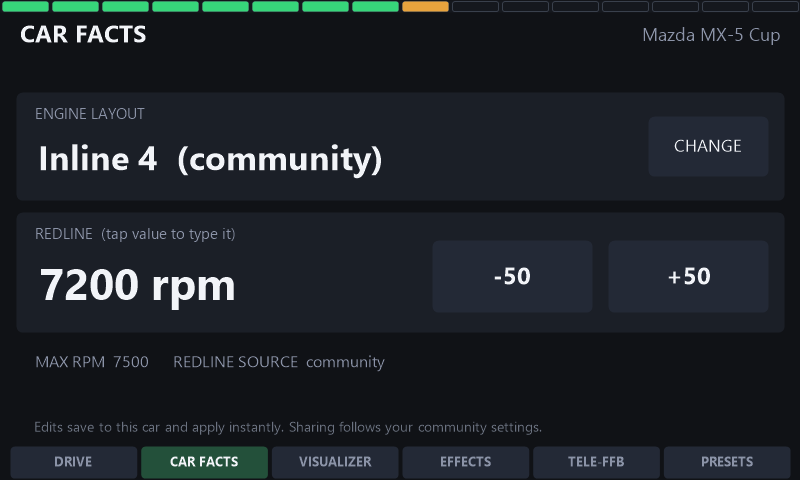
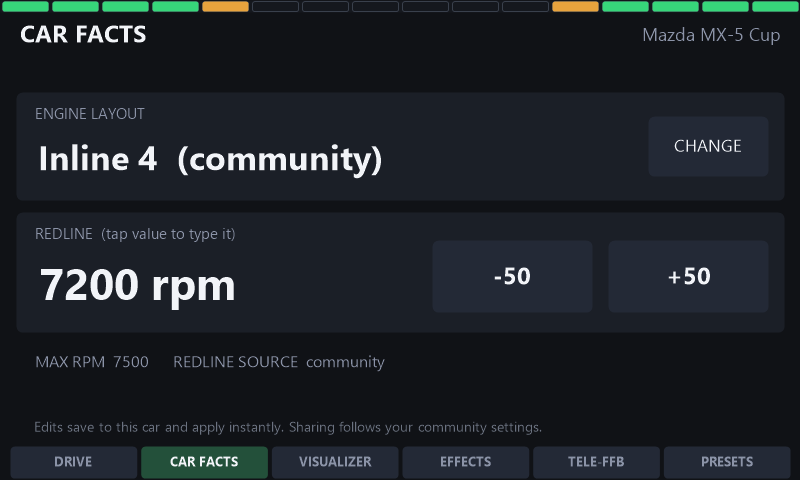
feat: flags and outside-in rev lights on by default, tap the gear to switch the strip
Race flags default on. A flag is the one thing on a dash you cannot
afford to miss, and in a game that reports none the band simply never
appears, so it costs those players nothing.

Rev strip fills outside-in by default, which is what the wheel's own rev
lights do and what most cars with center-converge shift lights do. The
preview renderer uses the same pair-index thresholds and colours, so the
thumbnail shows the strip a new user actually gets.

The gear column on the Drive tab is now the rev strip's span control: tap
it to switch between full width and just that column. It is the setting
you want to try rather than reason about, and the column has no other tap
target. Added last so it sits over the gear and pedals rather than under
them, clear of the strip above and the steering below, and gated on no
overlay being open like every other button.

Changed region(s): [[0.6875, 0.0, 1.0, 0.0312], [0.25, 0.0, 0.5625, 0.0312]]

diff --git a/src/TrueforceForAll.Plugin/TrueforceSettings.cs b/src/TrueforceForAll.Plugin/TrueforceSettings.cs
@@ -402,12 +402,13 @@ namespace TrueforceForAll.Plugin
         // without overriding a later user opt-out.
         public bool FeedbackBoxDefaultedOn { get; set; } = false;
 
-        // TF4ALL Remote dash: rev-strip fill direction. false = left to right
-        // (default); true = outside-in, both ends lighting first and
-        // converging on the center like center-converge shift lights.
+        // TF4ALL Remote dash: rev-strip fill direction. false = left to right;
+        // true = outside-in (default), both ends lighting first and converging
+        // on the center, which is what the wheel's own rev lights do and what
+        // most cars with center-converge shift lights do.
         // Surfaced in the Settings tab's "Remote dashboard" section; the dash
         // reads it live (Dash.RevOutsideIn) so a change applies instantly.
-        public bool DashRevStripOutsideIn { get; set; } = false;
+        public bool DashRevStripOutsideIn { get; set; } = true;
 
         // TF4ALL Remote dash: which tab the dash opens on when SimHub starts.
         // Remember-last wins while on (the dash reopens where it was left,
@@ -444,7 +445,10 @@ namespace TrueforceForAll.Plugin
         // whichever screen is open. Reads SimHub's own flag properties, so it
         // only ever lights up in games that report flags (the Forza titles
         // report none, which is why this is opt-in rather than always on).
-        public bool DashFlagsEnabled { get; set; } = false;
+        // On by default: a flag is the one thing on a dash you cannot afford
+        // to miss, and in a game that reports none the band simply never
+        // appears, so it costs those players nothing.
+        public bool DashFlagsEnabled { get; set; } = true;
 
         // TF4ALL Dash rev strip: false spans the full width of every screen
         // (default); true narrows it to the middle column, which on the Drive

diff --git a/src/TrueforceForAll.Plugin/TrueforcePlugin.DashRemote.cs b/src/TrueforceForAll.Plugin/TrueforcePlugin.DashRemote.cs
@@ -1211,6 +1211,22 @@ namespace TrueforceForAll.Plugin
                 if (!Settings.ModeBRevLightsEnabled) TurnOffRpmLeds();
                 RaiseDashRemoteChanged();
             });
+            // Tap the gear column on the Drive tab to switch the rev strip
+            // between full width and the gear column. It is the one dash
+            // setting you want to try rather than reason about, and the
+            // column has no other tap target, so the whole thing is the
+            // control. Also on a Settings checkbox for discoverability.
+            this.AddAction("DashRevStripSpanToggle", (a, b) =>
+            {
+                if (Settings == null) return;
+                DashNoteActivity();
+                Settings.DashRevStripCentered = !Settings.DashRevStripCentered;
+                PersistSettings();
+                DashToast(Settings.DashRevStripCentered
+                    ? "REV STRIP OVER THE GEAR"
+                    : "REV STRIP FULL WIDTH");
+                RaiseDashRemoteChanged();
+            });
             foreach (var kb in _dashModeB)
             {
                 var k = kb;   // capture per iteration
